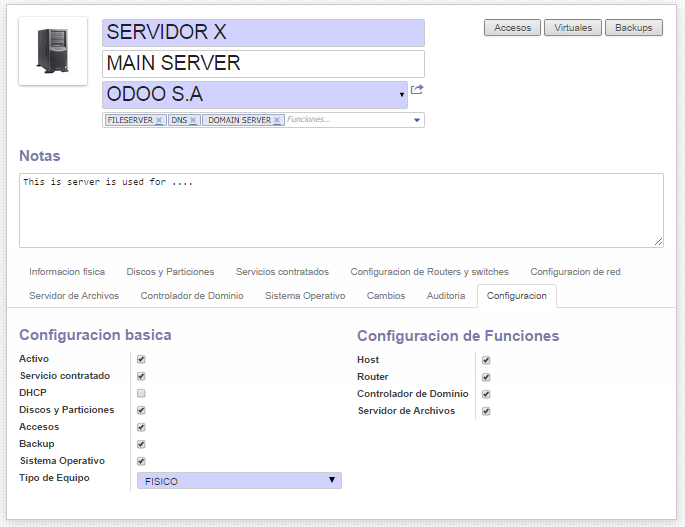
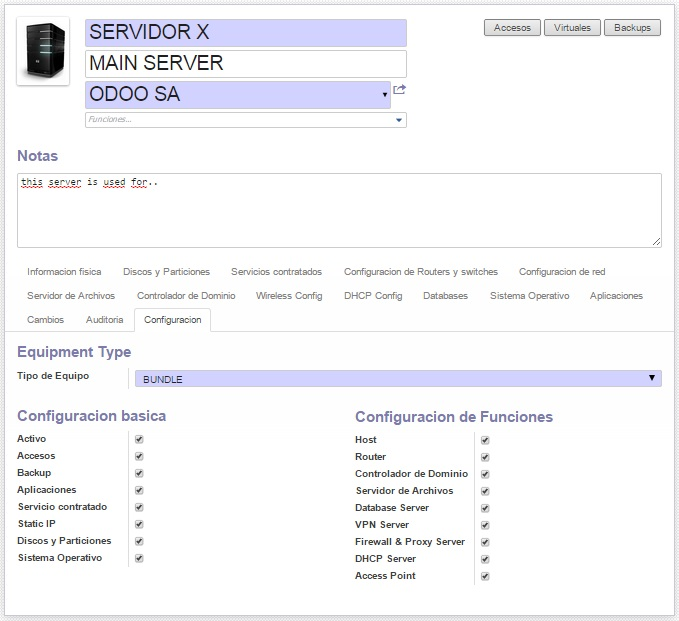
UPGRADE
[ADD] Proxy and Firewall function
[ADD] VPN Server function
[MOD] README.md Server Image
[DEL] TODO, only need translations.

Changed region(s): [[0.0, 0.0, 1.0, 1.0]]

diff --git a/it/equipment.py b/it/equipment.py
@@ -177,6 +177,27 @@ class it_equipment(osv.osv):
         'db_setting_ids': fields.one2many('it.equipment.dbsetting','equipment_id','DB Settings'),
         'db_ids': fields.one2many('it.equipment.db','equipment_id','Databases'),
 
+        #Firewall & Proxy Page
+        'firewall_filter_ids': fields.one2many('it.equipment.firewallfilter','equipment_id','Firewall Filters'),
+        'proxy_transparent': fields.boolean('Transparent Proxy'),
+        'proxy_enable_ssk': fields.boolean('Proxy Enable Single Sign-On (Kerberos)'),
+        'proxy_adblocking': fields.boolean('Proxy Ad Blocking'),
+        'proxy_port': fields.char('Proxy Port'),
+        'proxy_cache_size': fields.char('Proxy Cache File Size'),
+
+        #VPN Page
+        'vpn_protocol': fields.selection([('tcp','TCP'),('udp','UDP')],'VPN Protocol'),
+        'vpn_address': fields.char('VPN Address'),
+        'vpn_server_cert': fields.binary('VPN Server Certificate'),
+        'vpn_cacn': fields.boolean('Client Authorization by common name'),
+        'vpn_tun': fields.boolean('VPN Tun Interface'),
+        'vpn_nat': fields.boolean('VPN Network Address Traslation'),
+        'vpn_c2c': fields.boolean('VPN Allow Client to Client connections'),
+        'vpn_gateway': fields.boolean('Redirect Gateway'),
+        'vpn_search_domain': fields.char('VPN Search Domain'),
+        'vpn_wins_server': fields.char('VPN WINS Server'),
+
+
     }
 
     def _get_default_image(context=None):
@@ -202,7 +223,15 @@ class it_equipment(osv.osv):
         'function_firewall': False,
         'function_dhcp': False,
         'function_ap': False,
-        'ap_guest':  False,
+        'ap_guest': False,
+        'proxy_transparent': False,
+        'proxy_enable_ssk': False,
+        'proxy_adblocking': False,
+        'vpn_cacn': False,
+        'vpn_tun': False,
+        'vpn_nat': False,
+        'vpn_c2c': False,
+        'vpn_gateway': False,
         'image': _get_default_image(),
         'active': True,
         'creation_date': lambda *a: time.strftime('%Y-%m-%d %H:%M:%S'),

diff --git a/it/equipment_firewallfilter.py b/it/equipment_firewallfilter.py
@@ -19,27 +19,36 @@
 #
 ##############################################################################
 
-import equipment
-import access
-import equipment_change
-import equipment_component
-import equipment_network
-import equipment_rule
-import equipment_nat
-import equipment_forward
-import equipment_partition
-import backup
-import equipment_function
-import equipment_mapping
-import application
-import application_license
-import partner
-import access_change
-import equipment_db
-import equipment_ipreservation
-import equipment_dbsetting
-import equipment_dcuser
-import equipment_dcgroup
-import equipment_firewallfilter
+from openerp import addons
+import logging
+import time
+from openerp.osv import fields, osv
+from openerp import tools
+_logger = logging.getLogger(__name__)
+
+class it_equipment_firewallfilter(osv.osv):
+
+    _name = 'it.equipment.firewallfilter'
+
+    _description = 'Firewall Filter'
+
+    _columns = {
+
+        'equipment_id': fields.many2one('it.equipment','Equipment', ondelete='cascade'),
+        'name': fields.char('Name', required=True),
+        'source_address': fields.char('Source Address'),
+        'destination_address': fields.char('Destination Address'),
+        'service_port': fields.char('Service Port'),
+        'permission': fields.selection([('allow','ALLOW'),('deny','DENY')],'Permission'),
+
+    }
+
+    _defaults = {
+
+        'permission': 'allow',
+
+    }
+
+it_equipment_firewallfilter()
 
 # vim:expandtab:smartindent:tabstop=4:softtabstop=4:shiftwidth=4:

diff --git a/README.md b/README.md
@@ -40,6 +40,13 @@ This module is used for Infrastructure management. You can registry several type
 
 * Host: Add button "Virtuals" on righttop corner.
 * Router: Add page for router configuration.
+* Domain Controller
+* File Server
+* Dabatase Server
+* VPN Server
+* Firewall & Proxy Server
+* DHCP Server
+* Access Point
 
 ![Alt text](/docs/img/router_example.jpg?raw=true "Router Example")
 
@@ -135,31 +142,4 @@ Quick data access from partners.
 ![Alt text](/docs/img/partner_example.jpg?raw=true "Partner Example")
 
 
-# TODO LIST
-- [x] Add especification to readme and some images.
-- [x] Fix default image for servers.
-- [x] Change nat, forwards and rules model and view.
-- [x] Add applications model (software).
-- [x] Domain ons one2many for model
-- [x] More information for printers and other devices.
-- [x] Fix View of server changes.
-- [x] PIN unique for equipment
-- [x] Think about configuration page and all posibles configuration.
-- [x] Test widget password ( result not usefull )
-- [x] Access password history
-- [x] Data for licenses. (no copys)
-- [x] Generate Random Passwords
-- [x] IT Client Portal Role
-- [x] Equipment function : Database Server
-- [x] Equipment function : DHCP Server - Scope - Reservation.
-- [x] Equipment function : Router - merge data to DHCP Server
-- [x] Equipment function : Router - SSID WIFI Config for AP
-- [x] Equipment function : Domain Controller - Users table
-- [ ] Testing
-- [ ] Application Bundle Template
-- [ ] Demo data
-- [ ] QR image for equipments
-- [ ] Translation
-- [ ] Equipment function : VPN Server
-- [ ] Equipment function : Firewall & Proxy
 
